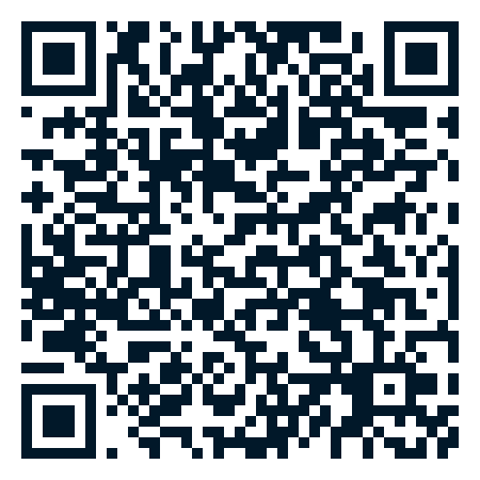
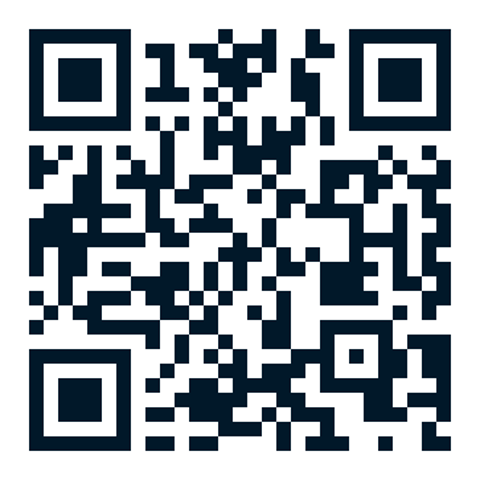
feat(landing): enlace corto de descarga — agua-segura.vercel.app/app
El enlace de GitHub es impronunciable por teléfono y no cabe en un volante.
Ahora la descarga vive en una redirección propia:

  https://agua-segura.vercel.app/app   (también /descargar)

Tres razones, no solo estética:
- Se dicta de viva voz sin que nadie lo escriba mal.
- El código QR baja de versión 5 a versión 3: menos cuadritos, se escanea
  de más lejos y con cámaras peores.
- Si mañana el archivo cambia de nombre o de lugar, se cambia la
  redirección y los volantes YA IMPRESOS siguen funcionando.

La redirección es temporal (307) a propósito: una permanente se queda
guardada en el navegador de la gente y después no habría cómo corregirla.

Verificado: build y eslint del panel en verde.

diff --git a/web/src/features/landing/LandingPage.tsx b/web/src/features/landing/LandingPage.tsx
@@ -1,8 +1,14 @@
 import { Link } from "react-router-dom";
 
-/** Enlace estable a la última versión del APK (el workflow lo sube con nombre fijo). */
-const APK_URL =
-  "https://github.com/antoniogaps-star/agua-segura/releases/latest/download/agua-segura.apk";
+/**
+ * Enlace CORTO de descarga: `agua-segura.vercel.app/app`.
+ *
+ * Es una redirección (ver `vercel.json`) hacia la última versión del APK en GitHub. Se
+ * usa el corto y no el de GitHub porque este se dicta por teléfono sin equivocarse, cabe
+ * en un volante y hace un QR más simple de escanear. Y si mañana el archivo cambia de
+ * lugar, se cambia la redirección y los volantes ya impresos siguen funcionando.
+ */
+const APK_URL = "/app";
 
 /** La app descargable es solo Android; iPhone/computadora usan el panel web. */
 const isIOS =

diff --git a/docs/DESPLIEGUE.md b/docs/DESPLIEGUE.md
@@ -26,7 +26,17 @@ enlace fijo que nunca cambia:
 
 `https://github.com/antoniogaps-star/agua-segura/releases/latest/download/agua-segura.apk`
 
-Ese es el enlace que usa la landing y el código QR.
+Para compartirlo con la gente **no se usa ese enlace**, sino el corto:
+
+`https://agua-segura.vercel.app/app`
+
+Es una redirección definida en `web/vercel.json`. Se hizo así por tres razones: se dicta
+por teléfono sin equivocarse, hace un código QR más simple de escanear, y si algún día el
+archivo cambia de nombre o de lugar basta con cambiar la redirección — los volantes ya
+impresos siguen funcionando.
+
+La redirección es **temporal (307), no permanente**, a propósito: una permanente se queda
+guardada en el navegador de la gente y ya no habría forma de corregirla.
 
 ---
 

diff --git a/mobile/README.md b/mobile/README.md
@@ -66,6 +66,7 @@ flutter test
 
 ## APK
 
-Lo compila GitHub Actions en cada cambio de `mobile/` y queda con enlace fijo:
+Lo compila GitHub Actions en cada cambio de `mobile/`. Para compartirlo se usa el enlace
+corto, que redirige a la última versión (ver `web/vercel.json`):
 
-`https://github.com/antoniogaps-star/agua-segura/releases/latest/download/agua-segura.apk`
+`https://agua-segura.vercel.app/app`
